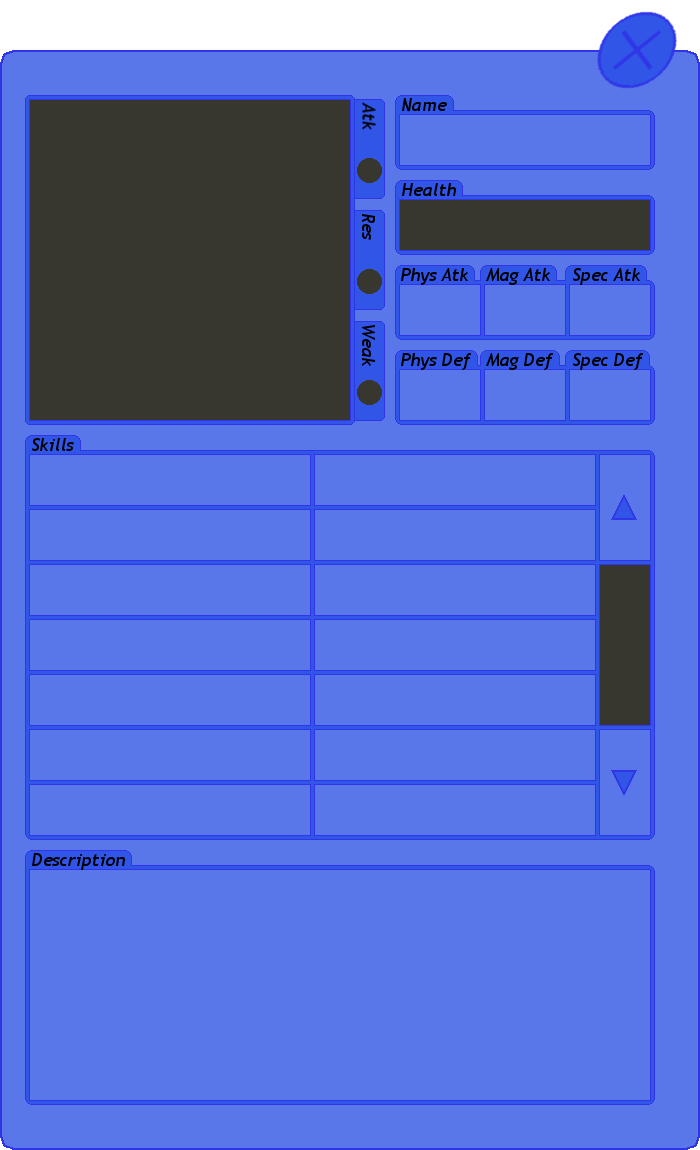
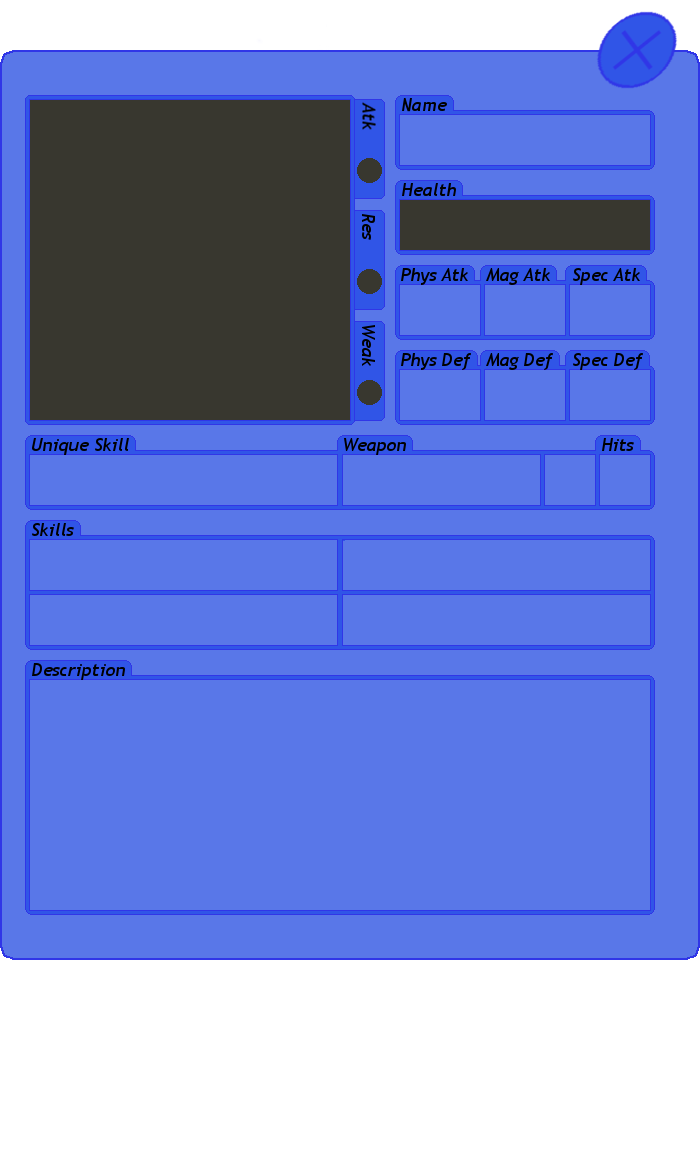
Updated Character Info Screens
Skills no longer have pages, 4 total, moved around
Fixed Nanako not having Teacher skill

diff --git a/app/src/main/java/ultrapoulet/wifeygame/screens/AbsCharacterInfoScreen.java b/app/src/main/java/ultrapoulet/wifeygame/screens/AbsCharacterInfoScreen.java
@@ -46,25 +46,18 @@ public abstract class AbsCharacterInfoScreen extends Screen {
 
     protected Paint skillsPaint;
     protected static final int SKILLS_TEXT_FONT = 40;
-    protected static final int SKILLS_TEXT_SIZE = 276;
-    protected static final int SKILLS_TEXT_PER_PAGE = 14;
+    protected static final int SKILLS_TEXT_SIZE = 303;
     protected static final int SKILLS_TEXT_LEFT_X = 32 + BG_X;
-    protected static final int SKILLS_TEXT_RIGHT_X = SKILLS_TEXT_LEFT_X + 285;
-    protected static final int SKILLS_TEXT_BASE_Y = 495 + BG_Y;
+    protected static final int SKILLS_TEXT_RIGHT_X = SKILLS_TEXT_LEFT_X + 313;
+    protected static final int SKILLS_TEXT_BASE_Y = 580 + BG_Y;
     protected static final int SKILLS_TEXT_OFFSET_Y = 55;
 
     protected static final int SKILLS_DESC_X = 32 + BG_X;
-    protected static final int SKILLS_DESC_Y = 872 + BG_Y;
+    protected static final int SKILLS_DESC_Y = 680 + BG_Y;
     protected static final int SKILLS_DESC_WIDTH = 616;
     protected TextPaint descPaint;
 
-    protected int skillsPage = 0;
     protected int displayText = -1;
-    protected int maxPage;
-
-    protected static final int SKILLS_SCROLL_X = 600 + BG_X;
-    protected static final int SKILLS_SCROLL_TOP_Y = 565 + BG_Y;
-    protected static final int SKILLS_SCROLL_MAX_Y = 645 + BG_Y;
 
     protected ButtonList basicButtonList;
 
@@ -74,21 +67,15 @@ public abstract class AbsCharacterInfoScreen extends Screen {
     protected static final int CLOSE_BOT_Y = CLOSE_TOP_Y + 75;
     protected static final String CLOSE_STRING = "Close";
 
-    protected static final int SKILLS_PAGE_LEFT_X = 600 + BG_X;
-    protected static final int SKILLS_PAGE_RIGHT_X = SKILLS_PAGE_LEFT_X + 50;
-    protected static final int SKILLS_PAGE_HEIGHT = 105;
-    protected static final int SKILLS_PREV_TOP_Y = 455 + BG_Y;
-    protected static final int SKILLS_PREV_BOT_Y = SKILLS_PREV_TOP_Y + SKILLS_PAGE_HEIGHT;
-    protected static final int SKILLS_NEXT_TOP_Y = 730 + BG_Y;
-    protected static final int SKILLS_NEXT_BOT_Y = SKILLS_NEXT_TOP_Y + SKILLS_PAGE_HEIGHT;
-    protected static final String PREV_STRING = "Prev";
-    protected static final String NEXT_STRING = "Next";
-
     protected ButtonList skillsButtonList;
     protected static final int SKILLS_BUTTON_LEFT_X = 30 + BG_X;
-    protected static final int SKILLS_BUTTON_OFFSET_X = 280;
-    protected static final int SKILLS_BUTTON_TOP_Y = 455 + BG_Y;
-    protected static final int SKILLS_BUTTON_OFFSET_Y = 55;
+    protected static final int SKILLS_BUTTON_WIDTH = 307;
+    protected static final int SKILLS_BUTTON_RIGHT_X = SKILLS_BUTTON_LEFT_X + SKILLS_BUTTON_WIDTH;
+    protected static final int SKILLS_BUTTON_OFFSET_X = 6;
+    protected static final int SKILLS_BUTTON_TOP_Y = 540 + BG_Y;
+    protected static final int SKILLS_BUTTON_HEIGHT = 50;
+    protected static final int SKILLS_BUTTON_BOT_Y = SKILLS_BUTTON_TOP_Y + SKILLS_BUTTON_HEIGHT;
+    protected static final int SKILLS_BUTTON_OFFSET_Y = 5;
 
     public AbsCharacterInfoScreen(Game game, Screen previousScreen) {
         super(game);
@@ -117,15 +104,13 @@ public abstract class AbsCharacterInfoScreen extends Screen {
     protected void createButtons(){
         basicButtonList = new ButtonList();
         basicButtonList.addButton(new Button(CLOSE_LEFT_X, CLOSE_RIGHT_X, CLOSE_TOP_Y, CLOSE_BOT_Y, true, CLOSE_STRING));
-        basicButtonList.addButton(new Button(SKILLS_PAGE_LEFT_X, SKILLS_PAGE_RIGHT_X, SKILLS_PREV_TOP_Y, SKILLS_PREV_BOT_Y, true, PREV_STRING));
-        basicButtonList.addButton(new Button(SKILLS_PAGE_LEFT_X, SKILLS_PAGE_RIGHT_X, SKILLS_NEXT_TOP_Y, SKILLS_NEXT_BOT_Y, true, NEXT_STRING));
 
         skillsButtonList = new ButtonList();
-        for(int i = 0; i < SKILLS_TEXT_PER_PAGE; i++) {
-            int leftX = SKILLS_BUTTON_LEFT_X + (SKILLS_BUTTON_OFFSET_X * (i % 2));
-            int rightX = leftX + SKILLS_BUTTON_OFFSET_X;
-            int topY = SKILLS_BUTTON_TOP_Y + (SKILLS_BUTTON_OFFSET_Y * (i / 2));
-            int botY = topY + SKILLS_BUTTON_OFFSET_Y;
+        for(int i = 0; i < 4; i++) {
+            int leftX = SKILLS_BUTTON_LEFT_X + ((SKILLS_BUTTON_WIDTH +SKILLS_BUTTON_OFFSET_X) * (i % 2));
+            int rightX = SKILLS_BUTTON_RIGHT_X  + ((SKILLS_BUTTON_WIDTH +SKILLS_BUTTON_OFFSET_X) * (i % 2));
+            int topY = SKILLS_BUTTON_TOP_Y + ((SKILLS_BUTTON_HEIGHT + SKILLS_BUTTON_OFFSET_Y) * (i / 2));
+            int botY = SKILLS_BUTTON_BOT_Y + ((SKILLS_BUTTON_HEIGHT + SKILLS_BUTTON_OFFSET_Y) * (i / 2));
             skillsButtonList.addButton(new Button(leftX, rightX, topY, botY, true, "Skill_" + i));
         }
     }
@@ -149,22 +134,12 @@ public abstract class AbsCharacterInfoScreen extends Screen {
                         case CLOSE_STRING:
                             backButton();
                             break;
-                        case PREV_STRING:
-                            if(skillsPage > 0){
-                                skillsPage--;
-                            }
-                            break;
-                        case NEXT_STRING:
-                            if(skillsPage < maxPage){
-                                skillsPage++;
-                            }
-                            break;
                         default:
                             System.out.println("AbsCharacterInfoScreen:update(): Invalid button selection: " + basicPressed.getName());
                     }
                 }
                 else if(skillPressed != -1){
-                    displayText = (displayText == skillPressed) ? -1 : skillPressed + SKILLS_TEXT_PER_PAGE * skillsPage;
+                    displayText = (displayText == skillPressed) ? -1 : skillPressed;
                 }
             }
             uniqueUpdate(t);

diff --git a/app/src/main/java/ultrapoulet/wifeygame/screens/CharacterInfoScreen.java b/app/src/main/java/ultrapoulet/wifeygame/screens/CharacterInfoScreen.java
@@ -149,9 +149,6 @@ public class CharacterInfoScreen extends AbsCharacterInfoScreen {
 
         displayExp = displayChar.getExperienceString();
 
-        //Note: If the character has no skills, this will still return 0
-        maxPage = (displayChar.getSkills().size() - 1) / SKILLS_TEXT_PER_PAGE;
-        skillsPage = 0;
         transformPage = 0;
         maxTransformPage = transformations.size();
         prevTransform.setActive(false);
@@ -316,10 +313,10 @@ public class CharacterInfoScreen extends AbsCharacterInfoScreen {
 
     protected void drawSkills(Graphics g){
         //List out names for the skills
-        for(int i = SKILLS_TEXT_PER_PAGE * skillsPage; i < SKILLS_TEXT_PER_PAGE * skillsPage + SKILLS_TEXT_PER_PAGE && i < displaySkills.size(); i++){
+        for(int i = 0; i < 4 && i < displaySkills.size(); i++){
             SkillsEnum skill = displaySkills.get(i);
             int xOffset;
-            int yOffset = SKILLS_TEXT_BASE_Y + ((i % SKILLS_TEXT_PER_PAGE) / 2) * SKILLS_TEXT_OFFSET_Y;
+            int yOffset = SKILLS_TEXT_BASE_Y + (i / 2) * SKILLS_TEXT_OFFSET_Y;
             if(i % 2 == 0) {
                 xOffset = SKILLS_TEXT_LEFT_X;
             }
@@ -327,13 +324,6 @@ public class CharacterInfoScreen extends AbsCharacterInfoScreen {
                 xOffset = SKILLS_TEXT_RIGHT_X;
             }
             g.drawString(skill.getSkillName(), xOffset, yOffset, skillsPaint, SKILLS_TEXT_SIZE, SKILLS_TEXT_FONT);
-        }
-        if(maxPage == 0){
-            g.drawImage(Assets.ScrollBarFull, SKILLS_SCROLL_X, SKILLS_SCROLL_TOP_Y);
-        }
-        else{
-            int offsetPerPage = (SKILLS_SCROLL_MAX_Y - SKILLS_SCROLL_TOP_Y) / maxPage;
-            g.drawImage(Assets.ScrollBarShort, SKILLS_SCROLL_X, SKILLS_SCROLL_TOP_Y + (offsetPerPage * skillsPage));
         }
     }
 

diff --git a/app/src/main/java/ultrapoulet/wifeygame/screens/BattleCharacterInfoScreen.java b/app/src/main/java/ultrapoulet/wifeygame/screens/BattleCharacterInfoScreen.java
@@ -77,9 +77,6 @@ public class BattleCharacterInfoScreen extends AbsCharacterInfoScreen {
         displayEnemy = enemy;
 
         displayText = -1;
-        skillsPage = 0;
-        //Note: If the character has no skills, this will still return 0
-        maxPage = (displayChar.getSkills().size() - 1)/ SKILLS_TEXT_PER_PAGE;
         multipliers = displayChar.getMultipliers(enemy);
     }
 
@@ -141,10 +138,10 @@ public class BattleCharacterInfoScreen extends AbsCharacterInfoScreen {
 
     protected void drawSkills(Graphics g){
         //List out names for the skills
-        for(int i = SKILLS_TEXT_PER_PAGE * skillsPage; i < SKILLS_TEXT_PER_PAGE * skillsPage + SKILLS_TEXT_PER_PAGE && i < displayChar.getSkills().size(); i++){
+        for(int i = 0; i < 4 && i < displayChar.getSkills().size(); i++){
             AbsSkill skill = displayChar.getSkills().get(i);
             int xOffset;
-            int yOffset = SKILLS_TEXT_BASE_Y + ((i % SKILLS_TEXT_PER_PAGE) / 2) * SKILLS_TEXT_OFFSET_Y;
+            int yOffset = SKILLS_TEXT_BASE_Y + (i / 2) * SKILLS_TEXT_OFFSET_Y;
             if(i % 2 == 0) {
                 xOffset = SKILLS_TEXT_LEFT_X;
             }
@@ -152,13 +149,6 @@ public class BattleCharacterInfoScreen extends AbsCharacterInfoScreen {
                 xOffset = SKILLS_TEXT_RIGHT_X;
             }
             g.drawString(skill.getSkillName(), xOffset, yOffset, skillsPaint, SKILLS_TEXT_SIZE, SKILLS_TEXT_FONT);
-        }
-        if(maxPage == 0){
-            g.drawImage(Assets.ScrollBarFull, SKILLS_SCROLL_X, SKILLS_SCROLL_TOP_Y);
-        }
-        else{
-            int offsetPerPage = (SKILLS_SCROLL_MAX_Y - SKILLS_SCROLL_TOP_Y) / maxPage;
-            g.drawImage(Assets.ScrollBarShort, SKILLS_SCROLL_X, SKILLS_SCROLL_TOP_Y + (offsetPerPage * skillsPage));
         }
     }
 
